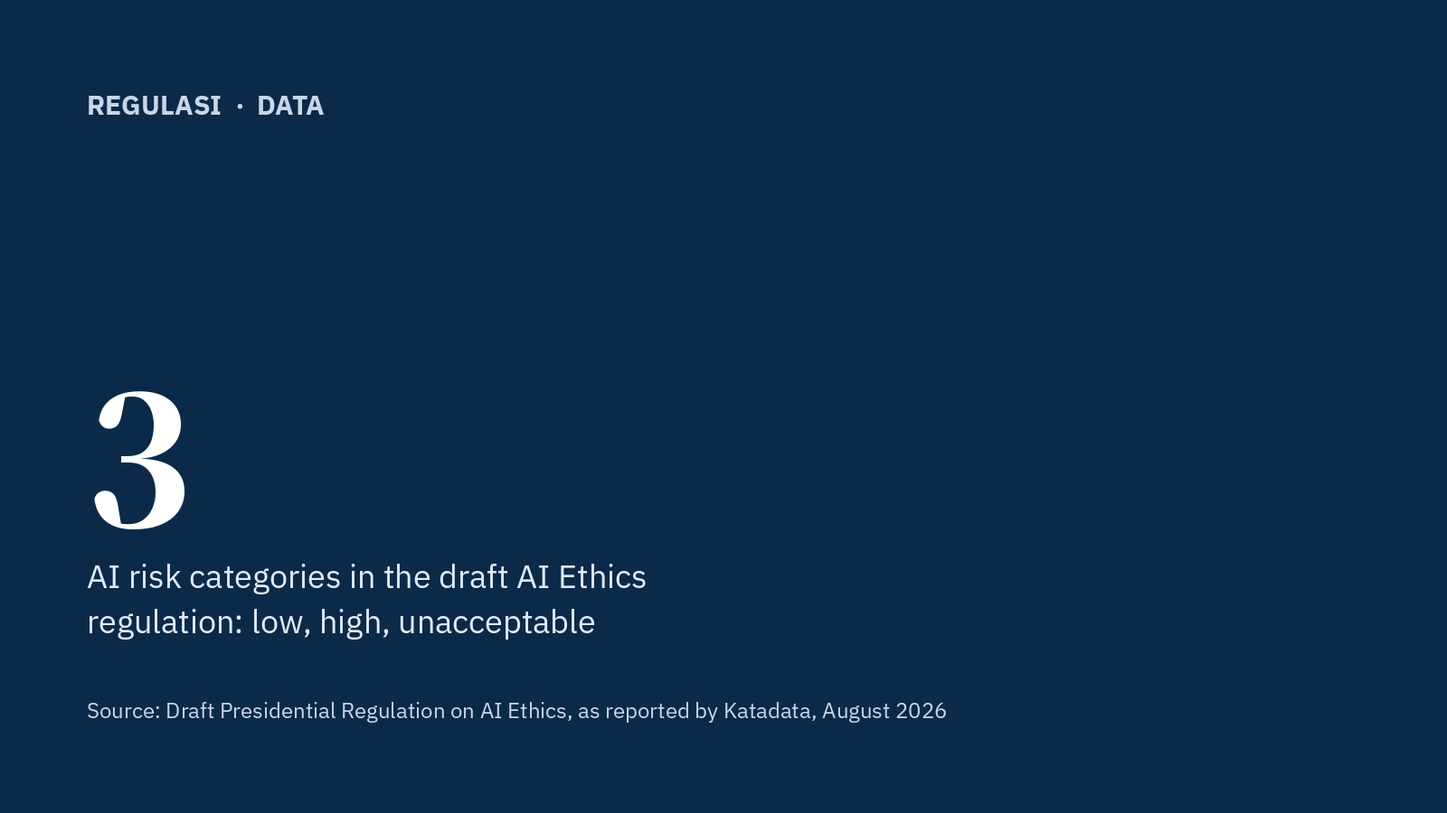
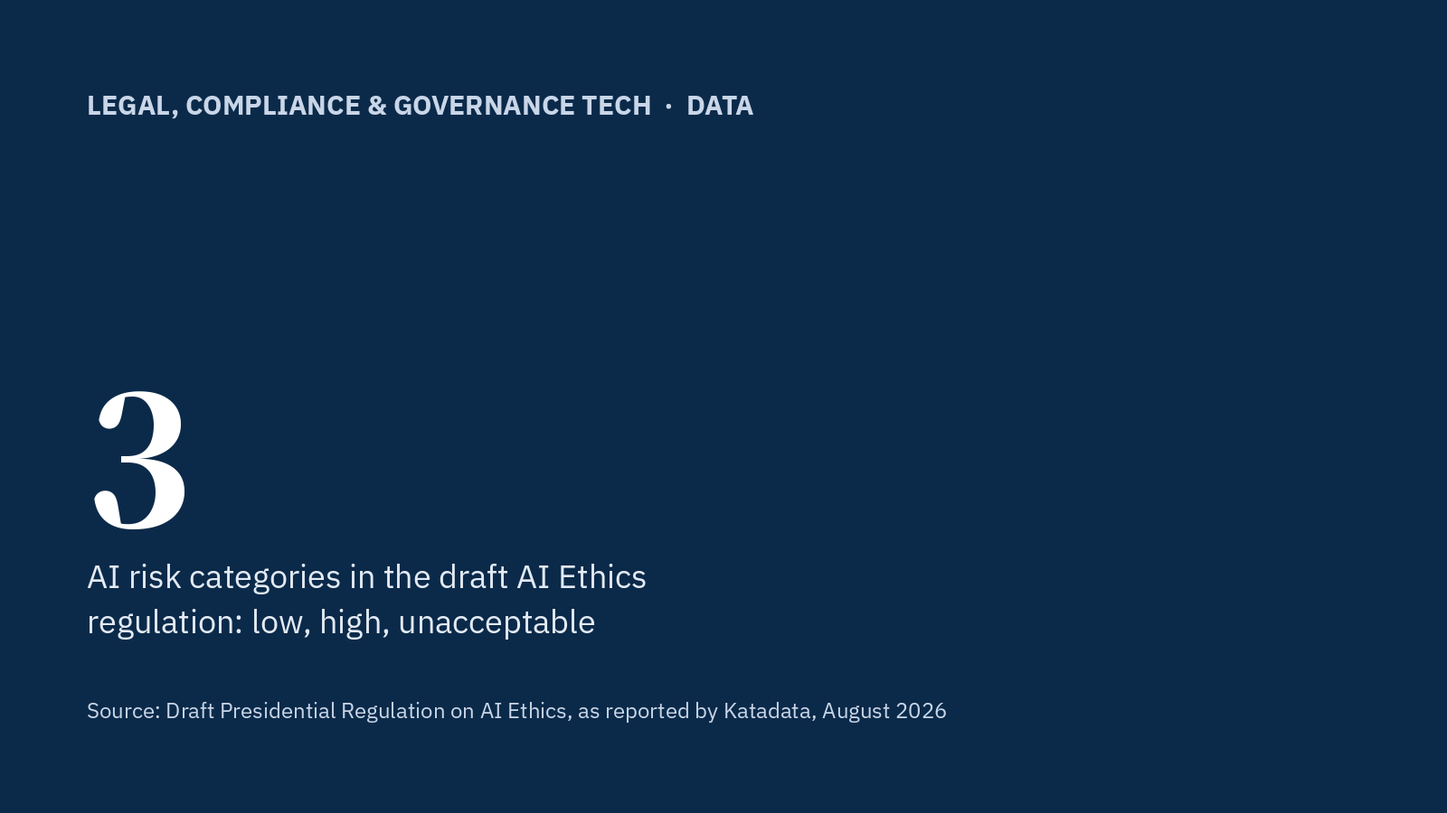
Categories follow the Expo 2027 zones: 3 hubs x 12 zones
Claude-Session: https://claude.ai/code/session_01QYc3xQXU6B1FhV79uHSMwJ

Changed region(s): [[0.0625, 0.0933, 0.5312, 0.1556]]

diff --git a/velo/public/custom-elements/review-ui.js b/velo/public/custom-elements/review-ui.js
@@ -19,14 +19,22 @@ const PANEL = '#F4F5F7';
 const SERIF = "'Source Serif 4', Georgia, serif";
 const SANS = "'IBM Plex Sans', system-ui, -apple-system, 'Segoe UI', sans-serif";
 
-const CATEGORIES = [
-  ['Cybersecurity', 'cybersecurity'],
-  ['AI & Data', 'ai-data'],
-  ['Cloud & Data Center', 'cloud-data-center'],
-  ['Enterprise Adoption', 'enterprise-adoption'],
-  ['Regulasi', 'regulasi'],
-  ['Deals', 'deals'],
+// Categories = B2B Tech Asia Expo 2027 zones (3 hubs x 4 zones). Keep in sync with taxonomy.json.
+const HUBS = [
+  { n: 'AI & Automation Hub', s: 'ai-automation-hub', no: 1, color: '#8E3B3F',
+    id: 'Keputusan teknis dan infrastruktur', en: 'Technical & infrastructure decisions', who: 'CTO, IT Director, Infrastructure Lead',
+    zones: [['AI & Automation', 'ai-automation'], ['Cloud & IT Infrastructure', 'cloud-it-infrastructure'], ['Cybersecurity & Data Protection', 'cybersecurity-data-protection'], ['Enterprise Software & ERP', 'enterprise-software-erp']] },
+  { n: 'Growth & Revenue Hub', s: 'growth-revenue-hub', no: 2, color: '#2C4A68',
+    id: 'Akuisisi dan retensi pelanggan', en: 'Customer acquisition & retention', who: 'CMO, Head of Sales, Growth Lead',
+    zones: [['Marketing Technology', 'marketing-technology'], ['Sales & CRM', 'sales-crm'], ['Customer Engagement & CX', 'customer-engagement-cx'], ['E-Commerce & Retail Tech', 'ecommerce-retail-tech']] },
+  { n: 'Back Office & Operations Hub', s: 'back-office-operations-hub', no: 3, color: '#3E5A44',
+    id: 'Fungsi yang menjaga bisnis tetap berjalan', en: 'Functions that keep business running', who: 'CFO, HR Director, Operations Head',
+    zones: [['FinTech & Financial Operations', 'fintech-financial-operations'], ['HR Tech & Workforce Management', 'hr-tech-workforce'], ['Legal, Compliance & Governance Tech', 'legal-compliance-governance'], ['Logistics & Supply Chain Tech', 'logistics-supply-chain']] },
 ];
+const LEGACY = { Cybersecurity: 'Cybersecurity & Data Protection', 'AI & Data': 'AI & Automation', 'Cloud & Data Center': 'Cloud & IT Infrastructure', Regulasi: 'Legal, Compliance & Governance Tech' };
+const ZONES = HUBS.reduce((acc, h) => acc.concat(h.zones.map(([n, s]) => ({ n, s, hub: h }))), []);
+function zoneOf(name) { const n = LEGACY[name] || name; return ZONES.find((z) => z.n === n) || null; }
+function hubOf(slug) { return HUBS.find((h) => h.s === slug || h.zones.some((z) => z[1] === slug)) || null; }
 const TYPE_LABEL = { analisis: 'Analisis', berita: 'Berita', penjelasan: 'Penjelasan' };
 const MONTHS = ['Januari', 'Februari', 'Maret', 'April', 'Mei', 'Juni', 'Juli', 'Agustus', 'September', 'Oktober', 'November', 'Desember'];
 const MON = ['Jan', 'Feb', 'Mar', 'Apr', 'Mei', 'Jun', 'Jul', 'Agu', 'Sep', 'Okt', 'Nov', 'Des'];
@@ -34,7 +42,6 @@ const DAYS = ['Minggu', 'Senin', 'Selasa', 'Rabu', 'Kamis', 'Jumat', 'Sabtu'];
 const EN_MONTHS = ['January', 'February', 'March', 'April', 'May', 'June', 'July', 'August', 'September', 'October', 'November', 'December'];
 const EN_MON = ['Jan', 'Feb', 'Mar', 'Apr', 'May', 'Jun', 'Jul', 'Aug', 'Sep', 'Oct', 'Nov', 'Dec'];
 const EN_DAYS = ['Sunday', 'Monday', 'Tuesday', 'Wednesday', 'Thursday', 'Friday', 'Saturday'];
-const EN_CAT = { Regulasi: 'Regulation' };
 const EN_TYPE = { analisis: 'Analysis', berita: 'News', penjelasan: 'Explainer' };
 
 // UI text. Page code sets d.lang = 'id' | 'en'.
@@ -52,7 +59,7 @@ const TEXT = {
     vendorTitle: 'Untuk vendor teknologi', vendorHead: 'Tampilkan solusi Anda kepada pengambil keputusan TI di Indonesia',
     vendorDesc: 'Jadi exhibitor atau sponsor di B2B Tech Asia Expo 2027.',
     about: 'Diterbitkan oleh B2B Tech Asia Expo. Setiap kutipan mencantumkan sumber aslinya. Hak cipta kutipan tetap milik media masing-masing. Analisis ditulis oleh redaksi B2B Tech Asia Review.',
-    topics: 'Topik', expo: 'Expo', exhibitor: 'Exhibitor', navLabel: 'Kategori', langLabel: 'Bahasa',
+    topics: 'Topik', allZones: 'Semua zona', expo: 'Expo', exhibitor: 'Exhibitor', navLabel: 'Kategori', langLabel: 'Bahasa',
   },
   en: {
     latest: 'Latest', pr: 'Press Releases', tagline: 'B2B technology news and analysis for decision makers',
@@ -67,7 +74,7 @@ const TEXT = {
     vendorTitle: 'For technology vendors', vendorHead: 'Put your solution in front of IT decision makers in Indonesia',
     vendorDesc: 'Exhibit or sponsor at B2B Tech Asia Expo 2027.',
     about: 'Published by B2B Tech Asia Expo. Every quotation credits its original source; copyright in quoted material remains with each publisher. Analysis is written by the B2B Tech Asia Review editors.',
-    topics: 'Topics', expo: 'Expo', exhibitor: 'Exhibitors', navLabel: 'Categories', langLabel: 'Language',
+    topics: 'Topics', allZones: 'All zones', expo: 'Expo', exhibitor: 'Exhibitors', navLabel: 'Categories', langLabel: 'Language',
   },
 };
 const VENUE = 'The Ritz-Carlton Jakarta, Pacific Place';
@@ -81,8 +88,8 @@ const en = () => LANG === 'en';
 function longDate(d) { const x = wib(d); return `${(en() ? EN_DAYS : DAYS)[x.getUTCDay()]}, ${x.getUTCDate()} ${(en() ? EN_MONTHS : MONTHS)[x.getUTCMonth()]} ${x.getUTCFullYear()}`; }
 function date(d) { if (!d) return ''; const x = wib(d); return `${x.getUTCDate()} ${(en() ? EN_MONTHS : MONTHS)[x.getUTCMonth()]} ${x.getUTCFullYear()}`; }
 function shortDate(d) { const x = wib(d); return `${x.getUTCDate()} ${(en() ? EN_MON : MON)[x.getUTCMonth()]}`; }
-function catSlug(name) { const c = CATEGORIES.find((x) => x[0] === name); return c ? c[1] : ''; }
-function catName(name) { return en() ? (EN_CAT[name] || name) : name; }
+function catSlug(name) { const z = zoneOf(name); return z ? z.s : ''; }
+function catName(name) { const z = zoneOf(name); return z ? z.n : (name || ''); }
 function typeName(t) { return (en() ? EN_TYPE : TYPE_LABEL)[t] || (en() ? 'Analysis' : 'Analisis'); }
 function T() { return TEXT[LANG] || TEXT.id; }
 
@@ -181,8 +188,9 @@ ${this.langSwitch(d)}
   }
 
   navLinks(d, L, active) {
+    const hub = hubOf(active);
     const items = [[T().latest, L('/review'), !active, false]]
-      .concat(CATEGORIES.map(([n, s]) => [catName(n), L('/review?kategori=' + s), active === s, false]))
+      .concat(HUBS.map((h) => [h.n, L('/review?kategori=' + h.s), !!hub && hub.s === h.s, false]))
       .concat([[T().pr, L('/review?kategori=siaran-pers'), active === 'siaran-pers', true]]);
     return items.map(([n, h, on, pr]) => `<a href="${h}" style="color:${on ? RED : (pr ? MUTED : INK)}">${esc(n)}</a>`).join('');
   }
@@ -269,8 +277,6 @@ ${this.langSwitch(d)}
     const lead = arts[0];
     const latest = arts.slice(1, 7);
     const analysis = arts.filter((a) => a !== lead && (a.articleType === 'analisis' || a.articleType === 'penjelasan')).slice(0, 3);
-    const sections = CATEGORIES.map(([n, s]) => ({ n, s, items: arts.filter((a) => a.category === n) }))
-      .filter((x) => x.items.length);
     const pr = d.releases || [];
     const out = [];
     out.push(this.topbar(d, L));
@@ -315,17 +321,9 @@ ${(a.audience || []).length ? `<span style="font-size:13px;color:${SUB}">${t.for
 
     out.push(`<div style="margin-top:48px">${this.vendorWide(d, L)}</div>`);
 
-    if (sections.length) {
-      out.push(`<section class="rv-grid" style="margin-top:48px;grid-template-columns:repeat(auto-fit,minmax(300px,1fr));gap:40px">
-${sections.map((s) => `<div style="display:flex;flex-direction:column">
-<h2 class="rv-serif" style="margin:0;font-size:22px;font-weight:700;padding:12px 0 14px;border-top:3px solid ${NAVY}"><a href="${L('/review?kategori=' + s.s)}" style="color:${NAVY}">${esc(catName(s.n))}</a></h2>
-<a href="${L('/review/' + s.items[0].slug)}">${this.heroImage(s.items[0], L)}</a>
-${s.items.slice(0, 3).map((it) => `<a href="${L('/review/' + it.slug)}" style="display:flex;flex-direction:column;gap:6px;padding:14px 0;border-bottom:1px solid ${LINE}">
-<span class="rv-serif" style="font-size:17px;line-height:1.35;font-weight:600">${esc(it.title)}</span>
-<span style="font-size:13px;color:${SUB}">${esc(typeName(it.articleType))} · ${esc(date(it.publishAt))}</span></a>`).join('')}
-</div>`).join('')}
+    out.push(`<section class="rv-grid" style="margin-top:48px;grid-template-columns:repeat(auto-fit,minmax(300px,1fr));gap:40px">
+${HUBS.map((h) => this.hubColumn(h, arts.filter((a) => { const z = zoneOf(a.category); return z && z.hub === h; }), L)).join('')}
 </section>`);
-    }
 
     if (pr.length) {
       out.push(`<section style="margin-top:64px" aria-labelledby="rv-pr">
@@ -344,6 +342,41 @@ ${pr.slice(0, 4).map((r) => this.prCard(r, L, true)).join('')}
     return out.join('');
   }
 
+  hubBadge(h, size) {
+    const px = size || 28;
+    return `<span aria-hidden="true" style="flex:0 0 ${px}px;width:${px}px;height:${px}px;border-radius:50%;background:${h.color};color:#fff;display:inline-flex;align-items:center;justify-content:center;font-weight:700;font-size:${Math.round(px * 0.5)}px">${h.no}</span>`;
+  }
+
+  // One hub on the front page: name, description, zone links, latest articles of the hub.
+  hubColumn(h, items, L) {
+    const t = T();
+    return `<div style="display:flex;flex-direction:column">
+<div style="border-top:3px solid ${NAVY};padding-top:12px;display:flex;gap:12px;align-items:center">
+${this.hubBadge(h)}
+<h2 class="rv-serif" style="margin:0;font-size:22px;font-weight:700"><a href="${L('/review?kategori=' + h.s)}" style="color:${NAVY}">${esc(h.n)}</a></h2>
+</div>
+<span style="font-size:14px;color:${MUTED};margin:6px 0 10px">${esc(en() ? h.en : h.id)} · ${t.forWho}: ${esc(h.who)}</span>
+<div style="display:flex;flex-wrap:wrap;gap:6px;margin-bottom:14px">${h.zones.map(([n, s]) => `<a href="${L('/review?kategori=' + s)}" style="font-size:12px;font-weight:600;border:1px solid #C4CAD3;padding:4px 8px;color:${INK}">${esc(n)}</a>`).join('')}</div>
+${items.length ? `<a href="${L('/review/' + items[0].slug)}">${this.heroImage(items[0], L)}</a>
+${items.slice(0, 3).map((it) => `<a href="${L('/review/' + it.slug)}" style="display:flex;flex-direction:column;gap:6px;padding:14px 0;border-bottom:1px solid ${LINE}">
+<span class="rv-kicker" style="font-size:11px;color:${RED}">${esc(catName(it.category))}</span>
+<span class="rv-serif" style="font-size:17px;line-height:1.35;font-weight:600">${esc(it.title)}</span>
+<span style="font-size:13px;color:${SUB}">${esc(typeName(it.articleType))} · ${esc(date(it.publishAt))}</span></a>`).join('')}`
+    : `<p style="margin:0;font-size:15px;color:${MUTED}">${t.empty}</p>`}
+</div>`;
+  }
+
+  // Zone filter under a hub or zone heading.
+  zoneChips(d, L) {
+    const h = hubOf(d.active);
+    if (!h) return '';
+    const chip = (label, slug) => {
+      const on = d.active === slug;
+      return `<a href="${L('/review?kategori=' + slug)}" style="font-size:13px;font-weight:600;padding:6px 12px;border:1px solid ${on ? NAVY : '#C4CAD3'};background:${on ? NAVY : '#fff'};color:${on ? '#fff' : INK}">${esc(label)}</a>`;
+    };
+    return `<div style="display:flex;flex-wrap:wrap;gap:8px;margin-top:16px">${chip(T().allZones, h.s)}${h.zones.map(([n, s]) => chip(n, s)).join('')}</div>`;
+  }
+
   prCard(r, L, label) {
     const t = T();
     return `<a href="${L('/siaran-pers/' + r.slug)}" style="display:flex;flex-direction:column;gap:10px">
@@ -358,8 +391,11 @@ ${label ? `<span class="rv-kicker" style="font-size:11px;display:flex;gap:8px;al
     const arts = d.articles || [];
     const pr = d.releases || [];
     const out = [this.topbar(d, L), this.masthead(d, L), this.leader(d, L), `<main class="rv-wrap" style="padding-top:32px">`];
-    out.push(`<div class="rv-sechead" style="border-top:none;padding-top:0"><h1 class="rv-serif" style="margin:0;font-size:40px;font-weight:700;color:${NAVY}">${esc(d.heading || '')}</h1>
-${d.intro ? `<span style="font-size:14px;color:${MUTED}">${esc(d.intro)}</span>` : ''}</div>`);
+    const lh = hubOf(d.active);
+    out.push(`${d.kicker ? `<div class="rv-kicker" style="font-size:12px;margin-bottom:8px"><a href="${L('/review?kategori=' + (lh ? lh.s : ''))}" style="color:${RED}">${esc(d.kicker)}</a></div>` : ''}
+<div class="rv-sechead" style="border-top:none;padding-top:0"><h1 class="rv-serif" style="margin:0;font-size:40px;font-weight:700;color:${NAVY};display:flex;gap:14px;align-items:center">${lh && lh.s === d.active ? this.hubBadge(lh, 40) : ''}${esc(d.heading || '')}</h1>
+${d.intro ? `<span style="font-size:14px;color:${MUTED}">${esc(d.intro)}</span>` : ''}</div>
+${this.zoneChips(d, L)}`);
     // A banner after every 6 cards; the first one is for visitors, the next for vendors.
     const withAds = (cards) => cards.map((c, i) => c + ((i + 1) % 6 === 0 && i + 1 < cards.length
       ? (((i + 1) / 6) % 2 === 1 ? this.vendorWide(d, L) : this.leader(d, L, 0, true)) : '')).join('');
@@ -452,7 +488,8 @@ ${rel.map((r) => `<a href="${L('/review/' + r.slug)}" class="rv-serif" style="di
 <span>${this.langSwitch(d)}</span>
 </div>
 <div style="display:flex;flex-wrap:wrap;gap:40px">
-<div style="display:flex;flex-direction:column;gap:10px"><strong style="color:${INK}">${t.topics}</strong>${CATEGORIES.map(([n, s]) => `<a href="${L('/review?kategori=' + s)}" style="color:${MUTED}">${esc(catName(n))}</a>`).join('')}<a href="${L('/review?kategori=siaran-pers')}" style="color:${MUTED}">${t.pr}</a></div>
+${HUBS.map((h) => `<div style="display:flex;flex-direction:column;gap:10px;max-width:220px"><a href="${L('/review?kategori=' + h.s)}" style="color:${INK}"><strong>${esc(h.n)}</strong></a>${h.zones.map(([n, s]) => `<a href="${L('/review?kategori=' + s)}" style="color:${MUTED}">${esc(n)}</a>`).join('')}</div>`).join('')}
+<div style="display:flex;flex-direction:column;gap:10px"><strong style="color:${INK}">${t.pr}</strong><a href="${L('/review?kategori=siaran-pers')}" style="color:${MUTED}">${t.prAll.replace(' →', '')}</a></div>
 <div style="display:flex;flex-direction:column;gap:10px"><strong style="color:${INK}">${t.expo}</strong><a href="${L('/')}" style="color:${MUTED}">B2B Tech Asia Expo</a><a href="${L('/register-now-2')}" style="color:${MUTED}">${t.register}</a><a href="${L(d.exhibitorPath || '/copy-of-agenda-2027')}" style="color:${MUTED}">${t.exhibitor}</a><a href="${L('/request-proposal-form')}" style="color:${MUTED}">${t.proposal}</a></div>
 </div></div></footer>`;
   }

diff --git a/velo/pages/reviewArticleItem.js b/velo/pages/reviewArticleItem.js
@@ -18,7 +18,6 @@ const MONTHS = ['Januari', 'Februari', 'Maret', 'April', 'Mei', 'Juni', 'Juli', 
 const TYPE_LABEL = { analisis: 'Analisis', berita: 'Berita', penjelasan: 'Penjelasan' };
 const EN_MONTHS = ['January', 'February', 'March', 'April', 'May', 'June', 'July', 'August', 'September', 'October', 'November', 'December'];
 const EN_TYPE = { analisis: 'Analysis', berita: 'News', penjelasan: 'Explainer' };
-const EN_CAT = { Regulasi: 'Regulation' };
 const TXT = {
   id: {
     news: 'Berita', byline: 'Redaksi B2B Tech Asia Review', minRead: 'menit baca', graphic: 'Grafis: B2B Tech Asia Review. Data:',
@@ -35,7 +34,19 @@ const TXT = {
     moreIn: (c) => 'More in ' + c, related: 'Related', author: 'B2B Tech Asia Review editors',
   },
 };
-const CAT_SLUG = { 'Cybersecurity': 'cybersecurity', 'AI & Data': 'ai-data', 'Cloud & Data Center': 'cloud-data-center', 'Enterprise Adoption': 'enterprise-adoption', 'Regulasi': 'regulasi', 'Deals': 'deals' };
+// Categories = B2B Tech Asia Expo 2027 zones. Keep in sync with taxonomy.json.
+const HUBS = [
+  ['AI & Automation Hub', 'ai-automation-hub', [['AI & Automation', 'ai-automation'], ['Cloud & IT Infrastructure', 'cloud-it-infrastructure'], ['Cybersecurity & Data Protection', 'cybersecurity-data-protection'], ['Enterprise Software & ERP', 'enterprise-software-erp']]],
+  ['Growth & Revenue Hub', 'growth-revenue-hub', [['Marketing Technology', 'marketing-technology'], ['Sales & CRM', 'sales-crm'], ['Customer Engagement & CX', 'customer-engagement-cx'], ['E-Commerce & Retail Tech', 'ecommerce-retail-tech']]],
+  ['Back Office & Operations Hub', 'back-office-operations-hub', [['FinTech & Financial Operations', 'fintech-financial-operations'], ['HR Tech & Workforce Management', 'hr-tech-workforce'], ['Legal, Compliance & Governance Tech', 'legal-compliance-governance'], ['Logistics & Supply Chain Tech', 'logistics-supply-chain']]],
+];
+function zoneInfo(name) {
+  for (const [hn, hs, zones] of HUBS) {
+    const z = zones.find((x) => x[0] === name);
+    if (z) return { zone: z[0], zoneSlug: z[1], hub: hn, hubSlug: hs, hubZones: zones.map((x) => x[0]) };
+  }
+  return { zone: name || '', zoneSlug: '', hub: '', hubSlug: '', hubZones: [name] };
+}
 
 function esc(s) {
   return String(s || '').replace(/&/g, '&amp;').replace(/</g, '&lt;').replace(/>/g, '&gt;').replace(/"/g, '&quot;');
@@ -90,16 +101,21 @@ $w.onReady(async function () {
   const isEn = lang === 'en';
   const t = TXT[isEn ? 'en' : 'id'];
   const item = localize(raw, isEn);
-  const catSlug = CAT_SLUG[item.category] || '';
-  const catLabel = isEn ? (EN_CAT[item.category] || item.category) : item.category;
+  const zi = zoneInfo(item.category);
+  const catSlug = zi.zoneSlug;
+  const catLabel = zi.zone;
   const type = (isEn ? EN_TYPE : TYPE_LABEL)[item.articleType] || (isEn ? 'Analysis' : 'Analisis');
   const readMin = Math.max(2, Math.round((words(item.summaryHtml) + words(item.analysisHtml) + words(item.actionHtml) + words(item.faqHtml)) / 200));
 
   const related = await wixData.query('ReviewArticles')
     .eq('category', item.category).ne('slug', item.slug).le('publishAt', new Date())
     .descending('publishAt').limit(3).find().then((r) => r.items).catch(() => []);
-  const latest = related.length ? related : await wixData.query('ReviewArticles')
-    .ne('slug', item.slug).le('publishAt', new Date()).descending('publishAt').limit(3).find().then((r) => r.items).catch(() => []);
+  // Same zone first, then the same hub, then the latest articles.
+  const sameHub = related.length ? [] : await wixData.query('ReviewArticles')
+    .hasSome('category', zi.hubZones).ne('slug', item.slug).le('publishAt', new Date())
+    .descending('publishAt').limit(3).find().then((r) => r.items).catch(() => []);
+  const latest = related.length ? related : (sameHub.length ? sameHub : await wixData.query('ReviewArticles')
+    .ne('slug', item.slug).le('publishAt', new Date()).descending('publishAt').limit(3).find().then((r) => r.items).catch(() => []));
 
   const chrome = { base, lang: isEn ? 'en' : 'id', path: '/review/' + item.slug, narrow: true, now: new Date().toISOString(), active: catSlug };
   const top = $w('#customElement1');
@@ -109,13 +125,13 @@ $w.onReady(async function () {
   top.setAttribute('data', JSON.stringify(chrome));
   bottom.setAttribute('data', JSON.stringify(Object.assign({}, chrome, {
     article: { category: item.category, audience: item.audience || [] },
-    relatedTitle: related.length ? t.moreIn(catLabel) : t.related,
+    relatedTitle: related.length ? t.moreIn(catLabel) : (sameHub.length ? t.moreIn(zi.hub) : t.related),
     related: latest.map((r) => localize(r, isEn)).map((r) => ({ slug: r.slug, title: r.title, category: r.category, heroImage: r.heroImage || '' })),
   })));
 
   // Headline block
   const head = [];
-  head.push(`<p style="font-size:13px"><span style="${SANS}; color:${SUB}"><a href="/review"><span style="color:${SUB}">${t.news}</span></a> &nbsp;›&nbsp; <a href="/review?kategori=${catSlug}"><span style="color:${SUB}">${esc(catLabel)}</span></a> &nbsp;›&nbsp; ${type}</span></p>`);
+  head.push(`<p style="font-size:13px"><span style="${SANS}; color:${SUB}"><a href="/review"><span style="color:${SUB}">${t.news}</span></a>${zi.hubSlug ? ` &nbsp;›&nbsp; <a href="/review?kategori=${zi.hubSlug}"><span style="color:${SUB}">${esc(zi.hub)}</span></a>` : ''} &nbsp;›&nbsp; <a href="/review?kategori=${catSlug}"><span style="color:${SUB}">${esc(catLabel)}</span></a> &nbsp;›&nbsp; ${type}</span></p>`);
   head.push(gap(8));
   head.push(`<p style="font-size:12px; letter-spacing:0.1em"><span style="${SANS}; color:${RED}"><strong>${type.toUpperCase()}</strong></span><span style="${SANS}; color:${NAVY}"><strong> &nbsp;·&nbsp; ${esc(catLabel).toUpperCase()}</strong></span></p>`);
   head.push(`<h1 style="font-size:46px; line-height:1.12"><span style="${SERIF}; color:${INK}"><strong>${esc(item.title)}</strong></span></h1>`);

diff --git a/velo/pages/reviewIndex.js b/velo/pages/reviewIndex.js
@@ -7,22 +7,17 @@ import wixLocationFrontend from 'wix-location-frontend';
 import wixWindowFrontend from 'wix-window-frontend';
 import wixSeoFrontend from 'wix-seo-frontend';
 
-const CATEGORIES = [
-  ['Cybersecurity', 'cybersecurity'],
-  ['AI & Data', 'ai-data'],
-  ['Cloud & Data Center', 'cloud-data-center'],
-  ['Enterprise Adoption', 'enterprise-adoption'],
-  ['Regulasi', 'regulasi'],
-  ['Deals', 'deals'],
+// Categories = B2B Tech Asia Expo 2027 zones (3 hubs x 4 zones). Keep in sync with taxonomy.json.
+const HUBS = [
+  { n: 'AI & Automation Hub', s: 'ai-automation-hub', id: 'Keputusan teknis dan infrastruktur', en: 'Technical & infrastructure decisions',
+    zones: [['AI & Automation', 'ai-automation'], ['Cloud & IT Infrastructure', 'cloud-it-infrastructure'], ['Cybersecurity & Data Protection', 'cybersecurity-data-protection'], ['Enterprise Software & ERP', 'enterprise-software-erp']] },
+  { n: 'Growth & Revenue Hub', s: 'growth-revenue-hub', id: 'Akuisisi dan retensi pelanggan', en: 'Customer acquisition & retention',
+    zones: [['Marketing Technology', 'marketing-technology'], ['Sales & CRM', 'sales-crm'], ['Customer Engagement & CX', 'customer-engagement-cx'], ['E-Commerce & Retail Tech', 'ecommerce-retail-tech']] },
+  { n: 'Back Office & Operations Hub', s: 'back-office-operations-hub', id: 'Fungsi yang menjaga bisnis tetap berjalan', en: 'Functions that keep business running',
+    zones: [['FinTech & Financial Operations', 'fintech-financial-operations'], ['HR Tech & Workforce Management', 'hr-tech-workforce'], ['Legal, Compliance & Governance Tech', 'legal-compliance-governance'], ['Logistics & Supply Chain Tech', 'logistics-supply-chain']] },
 ];
-
-const EN_CAT = { Regulasi: 'Regulation' };
-
-// English fields come from enJson (the `en` object in the feed); Indonesian is the fallback.
-function localize(a, lang) {
-  if (lang !== 'en' || !a.enJson) return a;
-  try { return Object.assign({}, a, JSON.parse(a.enJson)); } catch (e) { return a; }
-}
+// Old category slugs (before the zone structure) → zone slugs.
+const LEGACY_SLUG = { cybersecurity: 'cybersecurity-data-protection', 'ai-data': 'ai-automation', 'cloud-data-center': 'cloud-it-infrastructure', regulasi: 'legal-compliance-governance' };
 
 function slim(raw, lang) {
   const a = localize(raw, lang);
@@ -43,14 +38,16 @@ $w.onReady(async function () {
 
   const lang = (wixWindowFrontend.multilingual && wixWindowFrontend.multilingual.currentLanguage) || 'id';
   const base = lang && lang !== 'en' ? '/' + lang : '';
-  const kategori = String(wixLocationFrontend.query.kategori || '');
-  const cat = CATEGORIES.find((c) => c[1] === kategori);
+  const kategori = LEGACY_SLUG[String(wixLocationFrontend.query.kategori || '')] || String(wixLocationFrontend.query.kategori || '');
+  const hub = HUBS.find((h) => h.s === kategori);
+  const zoneHub = HUBS.find((h) => h.zones.some((z) => z[1] === kategori));
+  const zone = zoneHub ? zoneHub.zones.find((z) => z[1] === kategori) : null;
   const isPR = kategori === 'siaran-pers';
   const now = new Date();
   const isEn = lang === 'en';
   const path = '/review' + (kategori ? '?kategori=' + encodeURIComponent(kategori) : '');
-  const data = { base, lang: isEn ? 'en' : 'id', path, now: now.toISOString(), active: cat ? cat[1] : (isPR ? 'siaran-pers' : '') };
-  const catLabel = cat ? (isEn ? (EN_CAT[cat[0]] || cat[0]) : cat[0]) : '';
+  const data = { base, lang: isEn ? 'en' : 'id', path, now: now.toISOString(), active: hub || zone ? kategori : (isPR ? 'siaran-pers' : '') };
+  const catLabel = hub ? hub.n : (zone ? zone[0] : '');
 
   let title = isEn ? 'B2B Tech Asia Review — Indonesia B2B Technology News & Analysis' : 'B2B Tech Asia Review — Berita & Analisis Teknologi B2B Indonesia';
   let desc = isEn
@@ -67,11 +64,14 @@ $w.onReady(async function () {
     title = isEn ? 'Technology & Business Press Releases | B2B Tech Asia Review' : 'Siaran Pers Teknologi & Bisnis | B2B Tech Asia Review';
     desc = isEn ? 'The latest press releases from technology and business companies in Indonesia, distributed via VRITIMES.'
       : 'Siaran pers terbaru dari perusahaan teknologi dan bisnis di Indonesia, didistribusikan melalui VRITIMES.';
-  } else if (cat) {
-    const res = await wixData.query('ReviewArticles').eq('category', cat[0]).le('publishAt', now).descending('publishAt').limit(60).find();
+  } else if (hub || zone) {
+    const names = hub ? hub.zones.map((z) => z[0]) : [zone[0]];
+    const res = await wixData.query('ReviewArticles').hasSome('category', names).le('publishAt', now).descending('publishAt').limit(60).find();
+    const h = hub || zoneHub;
     Object.assign(data, {
       view: 'list', heading: catLabel,
-      intro: isEn ? 'News and analysis for decision makers in Indonesia' : 'Berita dan analisis untuk pengambil keputusan di Indonesia',
+      kicker: hub ? '' : h.n,
+      intro: hub ? (isEn ? h.en : h.id) : (isEn ? 'News and analysis for decision makers in Indonesia' : 'Berita dan analisis untuk pengambil keputusan di Indonesia'),
       articles: res.items.map((a) => slim(a, lang)),
     });
     title = isEn ? `${catLabel} — News & Analysis | B2B Tech Asia Review` : `${catLabel} — Berita & Analisis | B2B Tech Asia Review`;

diff --git a/scripts/recent_slugs.py b/scripts/recent_slugs.py
@@ -1,17 +1,27 @@
 #!/usr/bin/env python3
-"""List articles from the last 30 days: date, category, title (to avoid repeating stories)."""
+"""List articles from the last 30 days (to avoid repeating stories) and show which zones
+have been covered in the last 7 days (to pick today's zones)."""
 import json
+from collections import Counter
 from pathlib import Path
 from datetime import datetime, timedelta, timezone
 
 ROOT = Path(__file__).resolve().parent.parent
 WIB = timezone(timedelta(hours=7))
-cut = datetime.now(WIB) - timedelta(days=30)
-rows = []
+now = datetime.now(WIB)
+tax = json.loads((ROOT / "taxonomy.json").read_text(encoding="utf-8"))
+rows, week = [], Counter()
 for p in (ROOT / "articles").glob("*/*.json"):
     a = json.loads(p.read_text(encoding="utf-8"))
-    if datetime.fromisoformat(a["publishAt"]) >= cut:
+    t = datetime.fromisoformat(a["publishAt"])
+    if t >= now - timedelta(days=30):
         rows.append((a["publishAt"][:10], a["category"], a["title"], ", ".join(a.get("tags", [])[:5])))
+    if t >= now - timedelta(days=7):
+        week[a["category"]] += 1
 for r in sorted(rows, reverse=True):
     print(" | ".join(r))
-print(f"({len(rows)} articles in the last 30 days)")
+print(f"({len(rows)} articles in the last 30 days)\n")
+print("Zone coverage, last 7 days (fewest first within each hub):")
+for h in tax["hubs"]:
+    zs = sorted(h["zones"], key=lambda z: week[z["name"]])
+    print(f"  {h['name']}: " + ", ".join(f"{z['name']} {week[z['name']]}" for z in zs))

diff --git a/scripts/validate.py b/scripts/validate.py
@@ -9,7 +9,7 @@ from pathlib import Path
 from datetime import datetime
 
 ROOT = Path(__file__).resolve().parent.parent
-CATEGORIES = {"Cybersecurity", "AI & Data", "Cloud & Data Center", "Enterprise Adoption", "Regulasi", "Deals"}
+CATEGORIES = {z["name"] for h in json.loads((Path(__file__).resolve().parent.parent / "taxonomy.json").read_text(encoding="utf-8"))["hubs"] for z in h["zones"]}
 TYPES = {"analisis", "berita", "penjelasan"}
 REQUIRED = ["slug", "title", "category", "articleType", "dek", "summaryHtml", "analysisHtml",
             "actionHtml", "sources", "seoTitle", "seoDescription", "publishAt", "language"]

diff --git a/CLAUDE.md b/CLAUDE.md
@@ -8,16 +8,14 @@ There is no human review. Nobody approves articles and nobody is notified. Quali
 
 ## The daily run (weekdays, ~03:00 WIB)
 
-1. `python3 scripts/recent_slugs.py` — lists articles from the last 30 days, so you do not repeat a story.
-2. Research news from the last 72 hours (Indonesia first, then Southeast Asia if it affects Indonesian companies) for each of the 6 categories:
-   - **Cybersecurity** — incidents, threats, BSSN / OJK / Komdigi actions, vendor research
-   - **AI & Data** — enterprise AI, data platforms, AI cost and governance
-   - **Cloud & Data Center** — hyperscaler regions, data center capacity, power, pricing
-   - **Enterprise Adoption** — named companies (banks, telcos, BUMN, retailers, manufacturers) adopting technology; this is the most valuable category
-   - **Regulasi** — PDP law, OJK/BI rules, Komdigi, AI regulation, tax on digital services
-   - **Deals** — funding, M&A, partnerships, large contracts
+1. `python3 scripts/recent_slugs.py` — lists articles from the last 30 days, so you do not repeat a story, and the zone coverage of the last 7 days.
+2. Research news from the last 72 hours (Indonesia first, then Southeast Asia if it affects Indonesian companies). Categories follow the **B2B Tech Asia Expo 2027 zones** (`taxonomy.json`): 3 hubs × 4 zones. An article's `category` is exactly one zone name.
+   - **AI & Automation Hub** (CTO, IT Director, Infrastructure Lead): `AI & Automation` · `Cloud & IT Infrastructure` · `Cybersecurity & Data Protection` · `Enterprise Software & ERP`
+   - **Growth & Revenue Hub** (CMO, Head of Sales, Growth Lead): `Marketing Technology` · `Sales & CRM` · `Customer Engagement & CX` · `E-Commerce & Retail Tech`
+   - **Back Office & Operations Hub** (CFO, HR Director, Operations Head): `FinTech & Financial Operations` · `HR Tech & Workforce Management` · `Legal, Compliance & Governance Tech` · `Logistics & Supply Chain Tech`
+   See `scope` in `taxonomy.json` for what each zone covers. Regulation goes in the zone it affects most, or in `Legal, Compliance & Governance Tech` when it is about compliance itself. **Enterprise adoption** (a named bank, telco, BUMN, retailer or manufacturer adopting technology — the most valuable kind of story) and **deals** (funding, M&A, partnerships, large contracts) are angles, not categories: put the story in its zone and add the tag `Enterprise Adoption` or `Deals`.
    Use WebSearch (Indonesian and English queries) and WebFetch to read the actual articles. Prefer primary sources (regulator, company press release, filings) plus at least one reputable outlet (Kontan, Bisnis.com, Katadata, CNBC Indonesia, Kompas, Tempo, The Jakarta Post, Reuters, DealStreetAsia, Tech in Asia, KrASIA).
-3. Write **one article per category** (6 per day), in Bahasa Indonesia, **and** its English version in the `en` field (see Article format). If a category has no news that passes the rules, write a `penjelasan` (explainer) on a current issue in that category, or skip the category that day. Never invent news to fill a slot.
+3. Write **6 articles per day: 2 per hub, each in a different zone**, in Bahasa Indonesia, **and** each article's English version in the `en` field (see Article format). Use the zone coverage printed by `recent_slugs.py` to favour zones with few articles in the last 7 days, so all 12 zones get covered over the week — but news quality comes first: never force a weak story into a zone. If a hub has no news that passes the rules, write a `penjelasan` (explainer) on a current issue in one of its zones, or skip that slot. Never invent news to fill a slot.
 4. Save each article as `articles/YYYY-MM-DD/<slug>.json` (date = publish date, WIB) following `schema/article.schema.json`.
 5. `python3 scripts/make_images.py articles/YYYY-MM-DD` — renders the hero data graphic (`images/<slug>.png`) and sets `heroImage`.
 6. `python3 scripts/validate.py articles/YYYY-MM-DD` — must print `OK` for every file. Fix and re-run until it does. Delete any article you cannot fix.
@@ -58,4 +56,4 @@ There is no human review. Nobody approves articles and nobody is notified. Quali
 
 ## Cost
 
-Keep each run efficient: about 3–6 searches per category, fetch only the articles you will cite. One run per weekday.
+Keep each run efficient: about 3–6 searches per article, fetch only the articles you will cite. One run per weekday.
